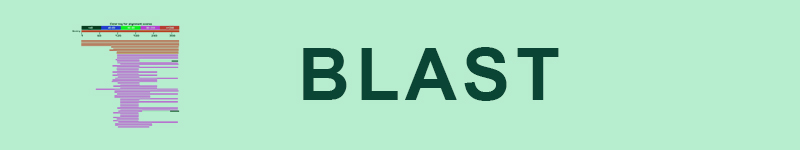
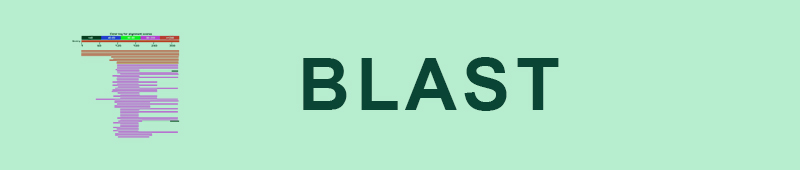
Adjusting the size of the dictyWidgets
DictyRace has also been added

diff --git a/app/views/mainFrontpage.html b/app/views/mainFrontpage.html
@@ -33,11 +33,13 @@
 						
 						<div class="widgetDiv"><img src="images/widgetGBROWSE.jpg" class="img-responsive" alt="BLAST search at the dictyBase" id="widgetImages"></div>
 
+						<div class="widgetDiv"><img src="images/widgetSTATS.jpg" class="img-responsive" alt="BLAST search at the dictyBase" id="widgetImages"></div>
+
 						<div class="widgetDiv"><img src="images/widgetSIGNALING.jpg" class="img-responsive" alt="BLAST search at the dictyBase" id="widgetImages"></div>
 
 						<div class="widgetDiv"><img src="images/widgetDICTYMINE.jpg" class="img-responsive" alt="BLAST search at the dictyBase" id="widgetImages"></div>
 
-						<div class="widgetDiv"><img src="images/widgetSTATS.jpg" class="img-responsive" alt="BLAST search at the dictyBase" id="widgetImages"></div>
+						<div class="widgetDiv"><img src="images/widgetDICTYRACE.jpg" class="img-responsive" alt="BLAST search at the dictyBase" id="widgetImages"></div>
 
 					</div> <!-- WIDGETS -->
 
